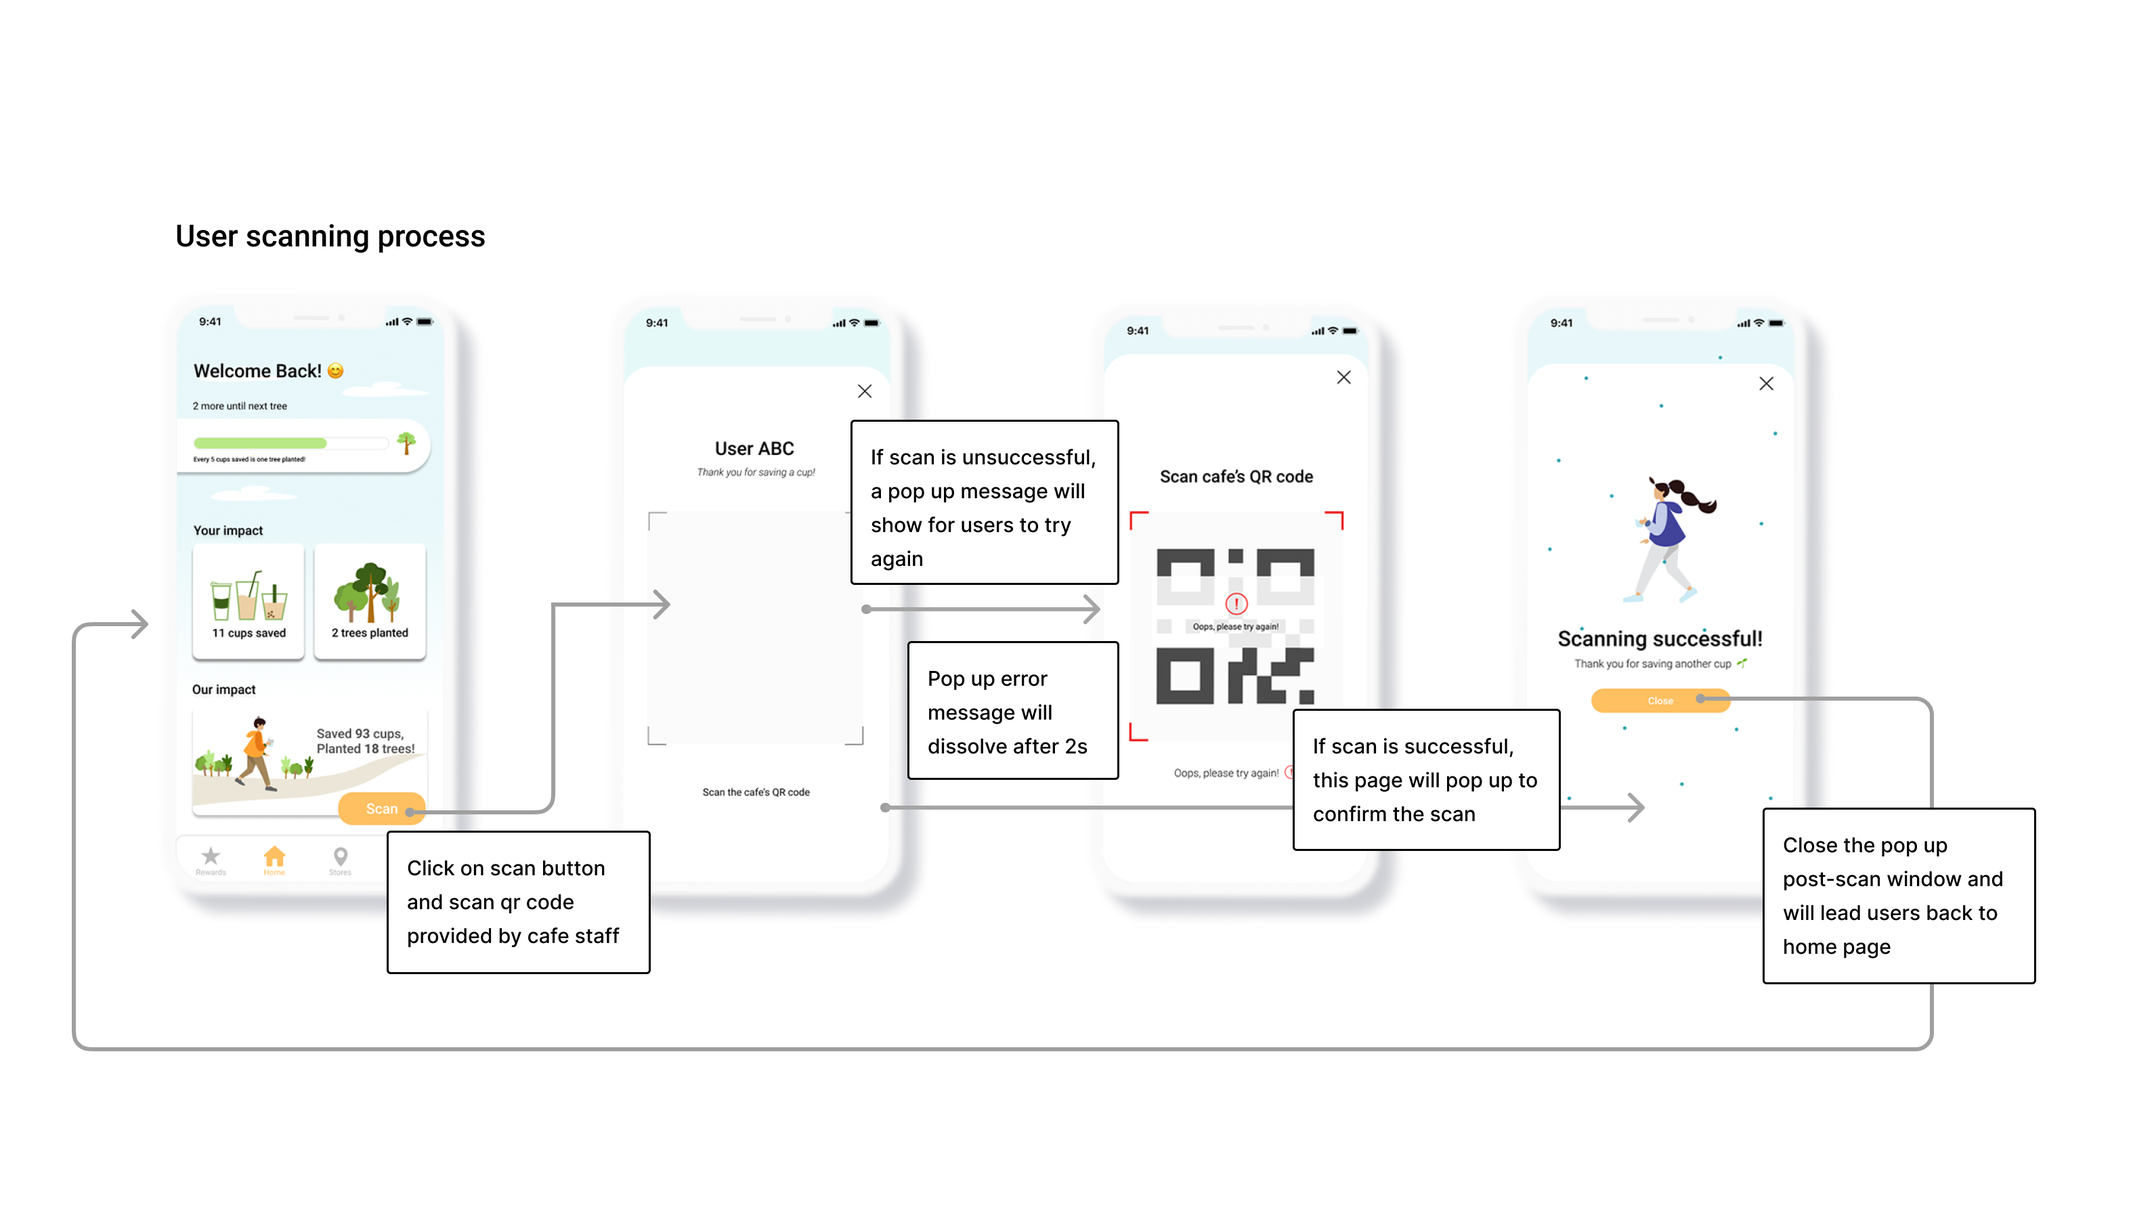
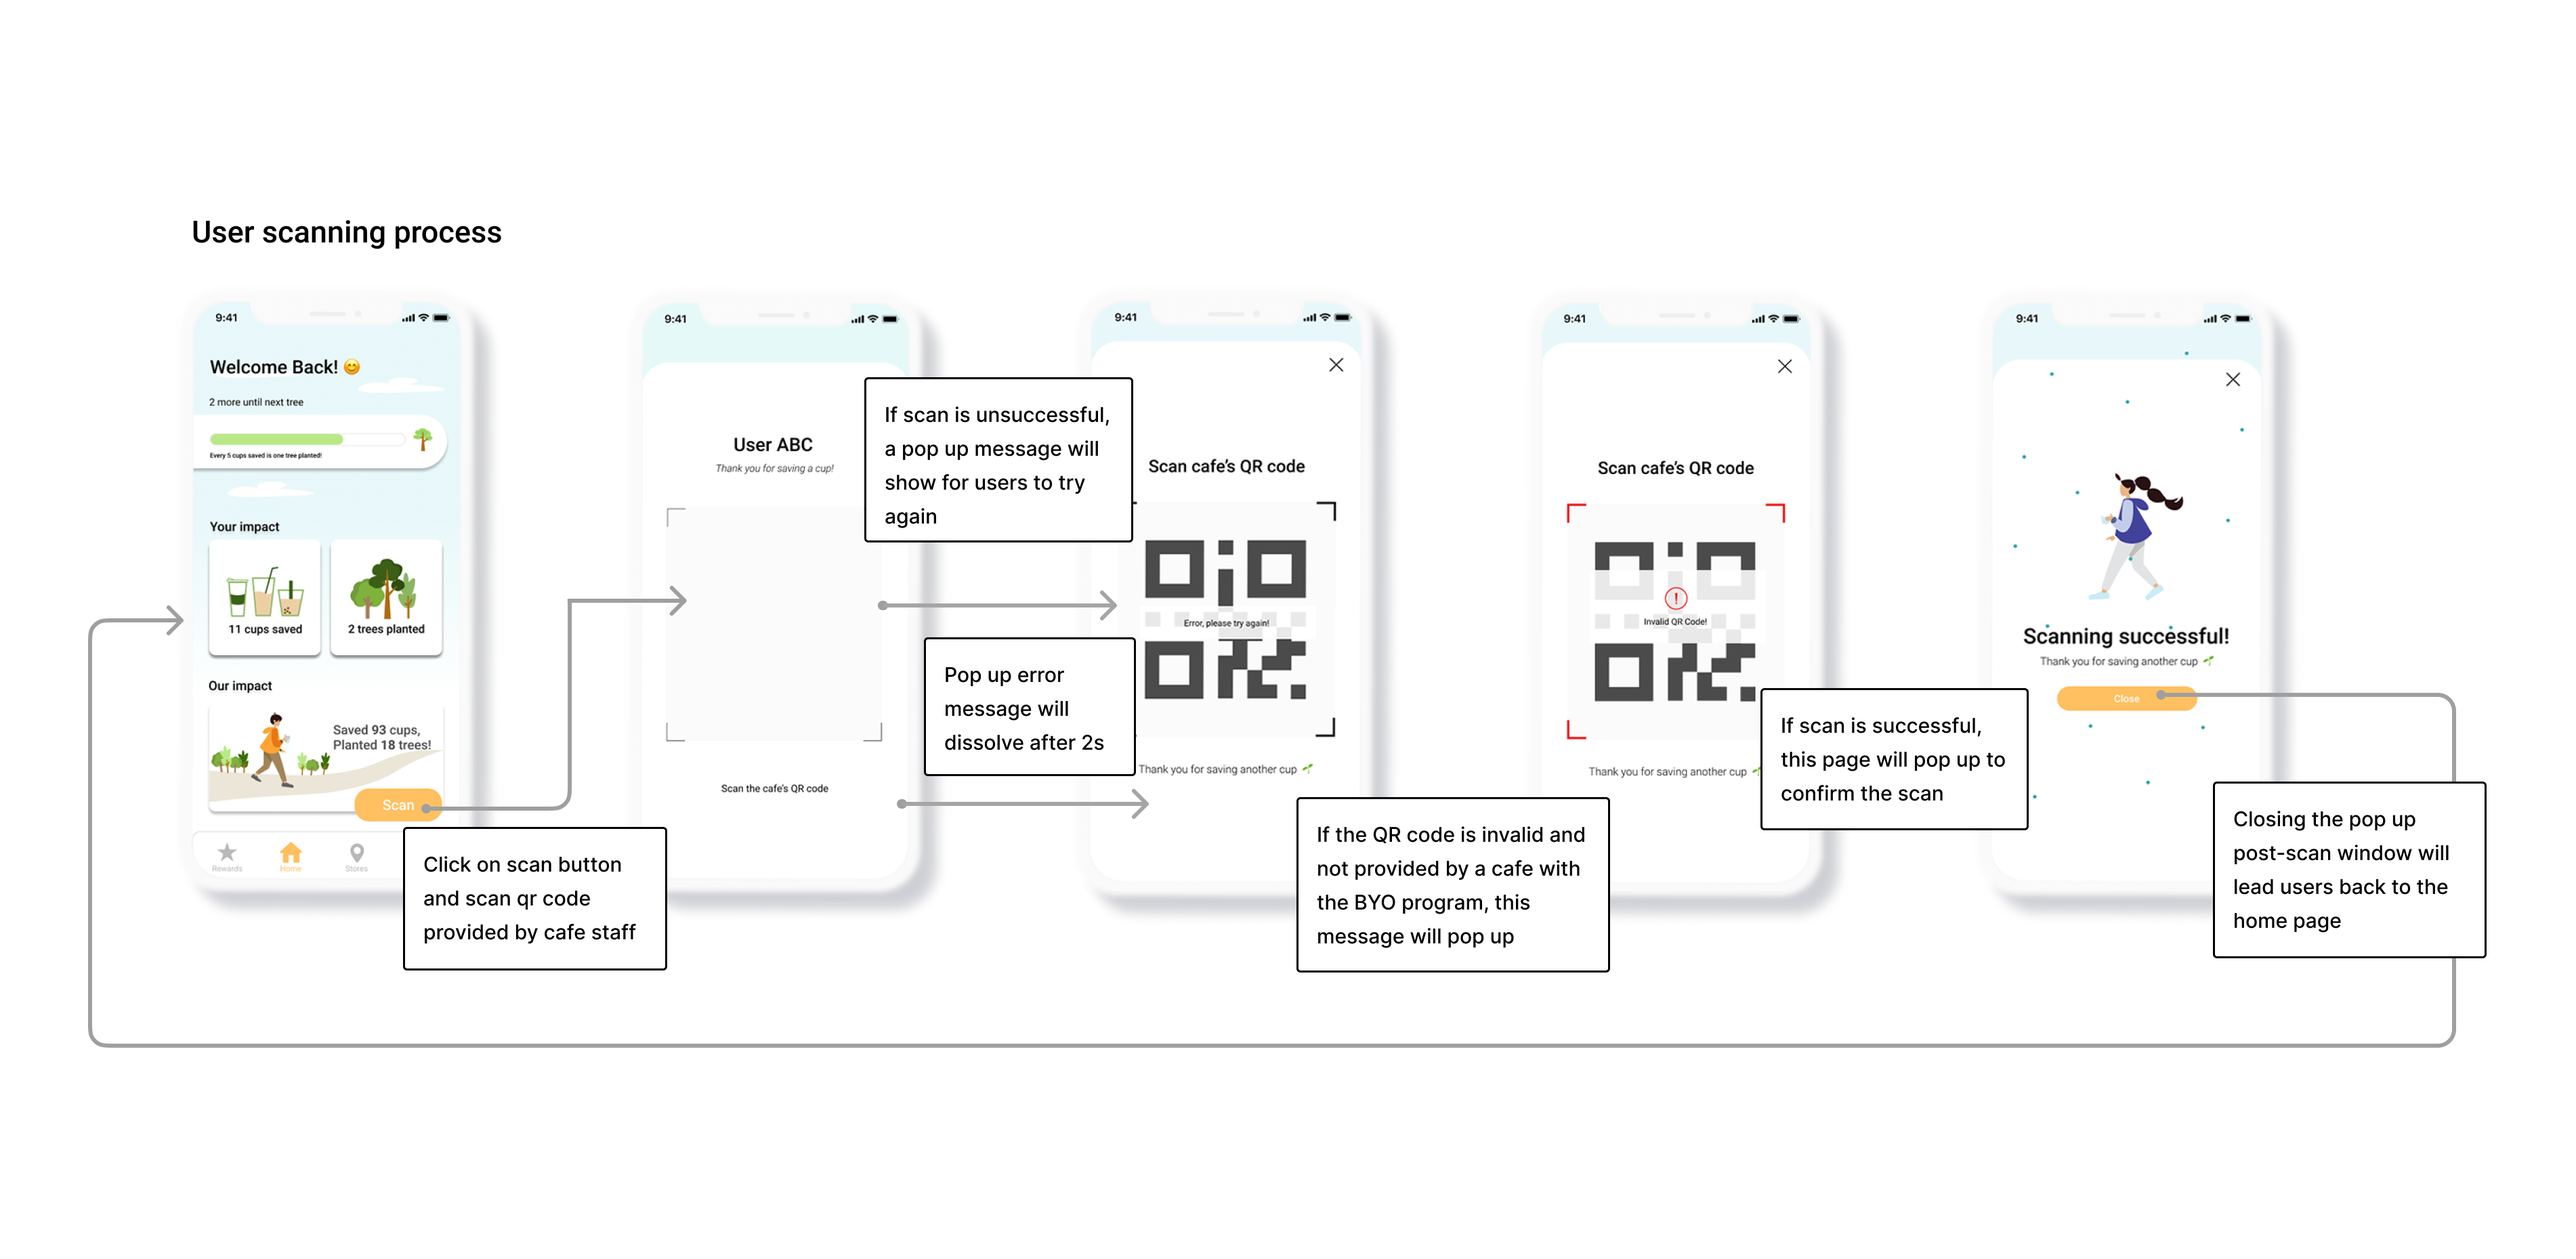
dd

Changed region(s): [[0.0311, 0.247, 0.9644, 0.8644], [0.0622, 0.1544, 0.2178, 0.2161], [0.4978, 0.247, 0.5289, 0.2778]]

diff --git a/project2.html b/project2.html
@@ -293,7 +293,7 @@
 
           <figure>
            <img src = "img/impacts.png" alt= "final impact dashboard" width = "600">
-           <figcaption> Final impact dashboard after many many iterations </figcaption>
+           <figcaption> Final impact dashboard for the Beta Launch </figcaption>
          </figure>
 
        </section> <!--Closing app design section-->
@@ -315,7 +315,7 @@
             <figcaption> First scanning iteration </figcaption>
           </figure>
 
-          <p> In the early stages of the scanning iteration, we were going to have a pop up page for when the scanning is unsuccessful so there is a visual consistency with the "successful scanning" pop up page. However, after discussing the user flow with my team, we came to the conclusion that this may be adding an extra step for users. We decided to add a transparent pop up message and red borders instead which would disappear after a few seconds and allow users to scan while the message is in display. </p>
+          <p> In the early stages of the scanning iteration, we were going to have a pop up page for when the scanning is unsuccessful so there is a visual consistency with the "successful scanning" pop up page. However, after discussing the user flow with my team, we came to the conclusion that this may be adding an extra step for users. We decided to add a transparent pop up message and red borders instead which would disappear after a few seconds and allow users to continue scanning while the message is in display. In the case that the QR code is invalid and not provided by a cafe with the BYO program, "QR code invalid" message will pop up. </p>
 
           <figure>
             <img src = "img/flow.png" alt = "user flow for scanning" width = "800">
